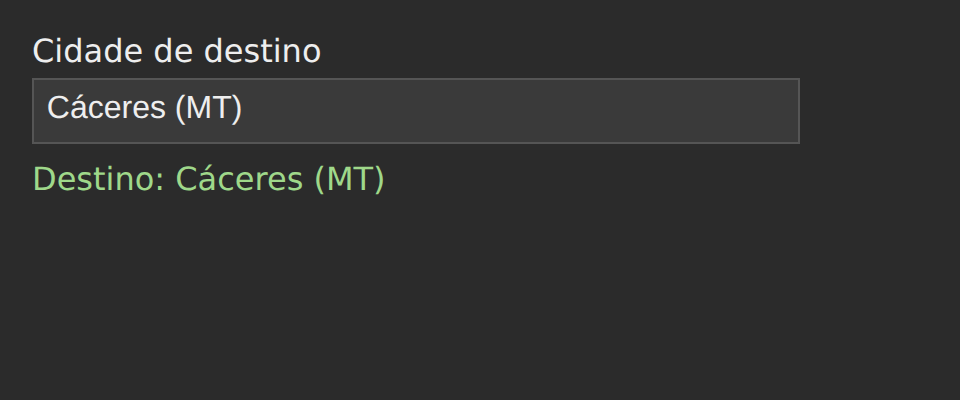
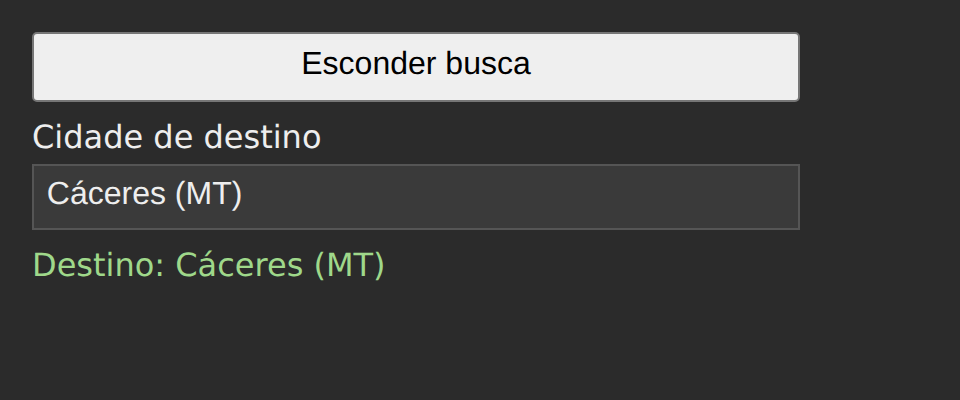
Esconde e mostra a Busca no Solid
Desde "Leva à Busca as regras comuns da primeira rodada", o teste de
conformidade pede a situação numa região de status presente desde a
abertura, o botão "Esconder busca" e zero requisições abertas depois
dele. O Solid ainda monta o <p class="situacao"> dentro de um <Show>,
que cria a região já com o texto, renderiza o BuscaDeDestino direto na
raiz e não aborta a requisição ao descartar o componente.

A situação passa a um <p> montado sempre, com role="status" e hidden
enquanto não há mensagem, que o [hidden] do estilo.css esconde. Entra
a página, o componente BuscaComSugestoes, como a do Login: o signal
visivel, o botão com o texto derivado dele e a busca dentro de um
<Show>, que a monta e a descarta com o signal; a busca troca o <main>
pelo <section class="painel">. Um onCleanup no componente aborta a
requisição em andamento quando ele é descartado, como no Login.

npm run conformidade -- busca-com-sugestoes/solid passa nas 17
verificações; sem o onCleanup do abort, falha "11 esconder durante a
busca cancela a requisição", com uma requisição aberta. As capturas
das sete cenas saem idênticas às do Web Component, do Web Component
com signals e do React.

Refs: tcc-v4m7

Changed region(s): [[0.0312, 0.06, 0.8438, 0.51], [0.0312, 0.57, 0.8438, 0.6], [0.0312, 0.63, 0.4062, 0.69]]

diff --git a/implementacoes/busca-com-sugestoes/solid/src/main.tsx b/implementacoes/busca-com-sugestoes/solid/src/main.tsx
@@ -1,4 +1,11 @@
-import { batch, createResource, createSignal, For, Show } from "solid-js";
+import {
+  batch,
+  createResource,
+  createSignal,
+  For,
+  onCleanup,
+  Show,
+} from "solid-js";
 import { render } from "solid-js/web";
 import {
   MENSAGENS,
@@ -28,6 +35,9 @@ function BuscaDeDestino() {
       return buscarCidades(termoValido, controlador.signal);
     },
   );
+
+  // Sem isto, a requisição continua fora da página.
+  onCleanup(() => controlador?.abort());
 
   function buscar(novo: string) {
     if (novo === termo()) return;
@@ -62,7 +72,7 @@ function BuscaDeDestino() {
     visivel() && !cidades.loading && !cidades.error ? (cidades() ?? []) : [];
 
   return (
-    <main class="busca">
+    <section class="painel">
       <label>
         Cidade de destino
         <input
@@ -79,13 +89,9 @@ function BuscaDeDestino() {
           }}
         />
       </label>
-      <Show when={mensagem()}>
-        {(m) => (
-          <p class="situacao" role="status">
-            {m()}
-          </p>
-        )}
-      </Show>
+      <p class="situacao" role="status" hidden={!mensagem()}>
+        {mensagem()}
+      </p>
       <Show when={sugestoes().length > 0}>
         <ul class="sugestoes">
           <For each={sugestoes()}>
@@ -102,8 +108,27 @@ function BuscaDeDestino() {
       <Show when={escolha()}>
         {(e) => <p class="escolha">Destino: {e()}</p>}
       </Show>
+    </section>
+  );
+}
+
+// A página: o botão que tira a busca da página e a põe de volta.
+function BuscaComSugestoes() {
+  const [visivel, setVisivel] = createSignal(true);
+  return (
+    <main class="busca">
+      <button
+        type="button"
+        class="alternar"
+        onClick={() => setVisivel(!visivel())}
+      >
+        {visivel() ? "Esconder busca" : "Mostrar busca"}
+      </button>
+      <Show when={visivel()}>
+        <BuscaDeDestino />
+      </Show>
     </main>
   );
 }
 
-render(() => <BuscaDeDestino />, document.getElementById("raiz")!);
+render(() => <BuscaComSugestoes />, document.getElementById("raiz")!);
